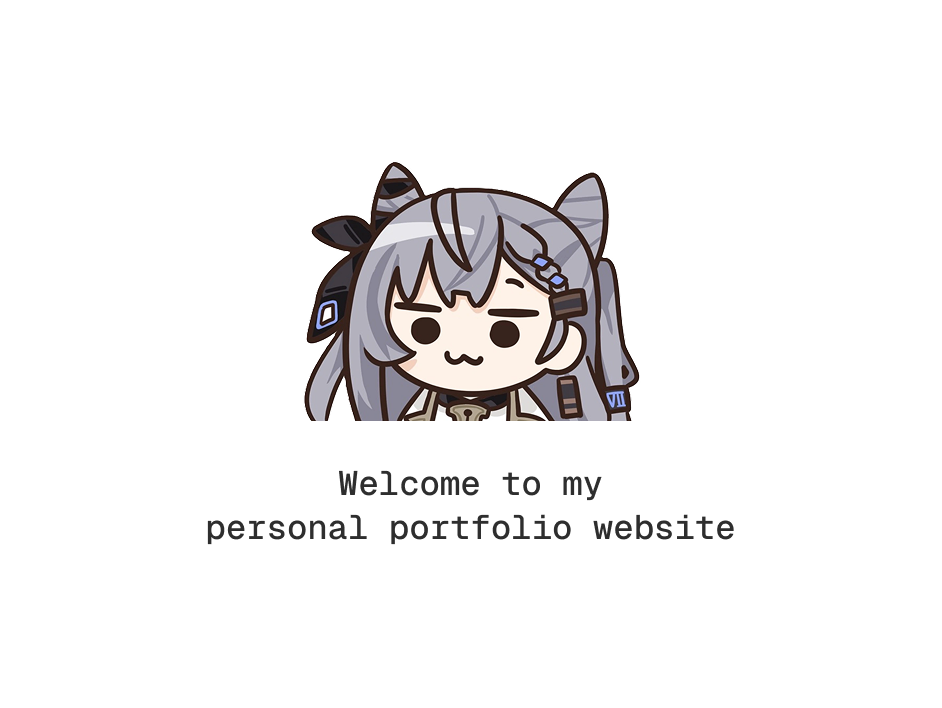
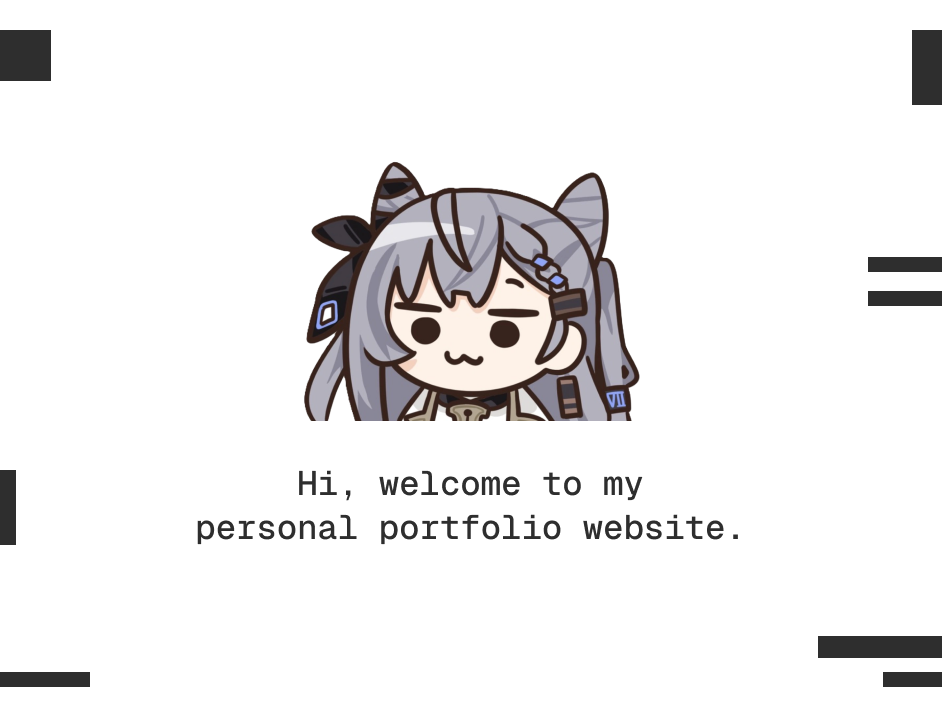
Update metadata description and replace opengraph image

diff --git a/app/layout.tsx b/app/layout.tsx
@@ -17,7 +17,7 @@ const geistMono = Geist_Mono({
 
 export const metadata: Metadata = {
   title: "Al Sakha | just random npc",
-  description: "This is my personal portfolio website",
+  description: "Portfolio website of Al Sakha, an npc and software engineer",
   keywords: [
     "software engineer",
     "web developer",
